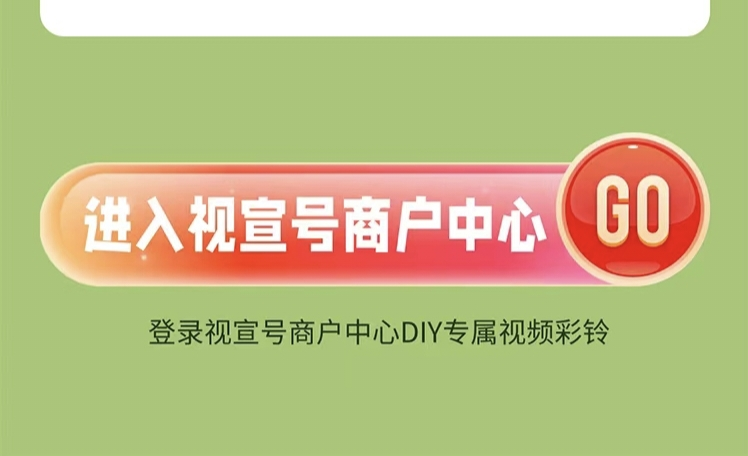
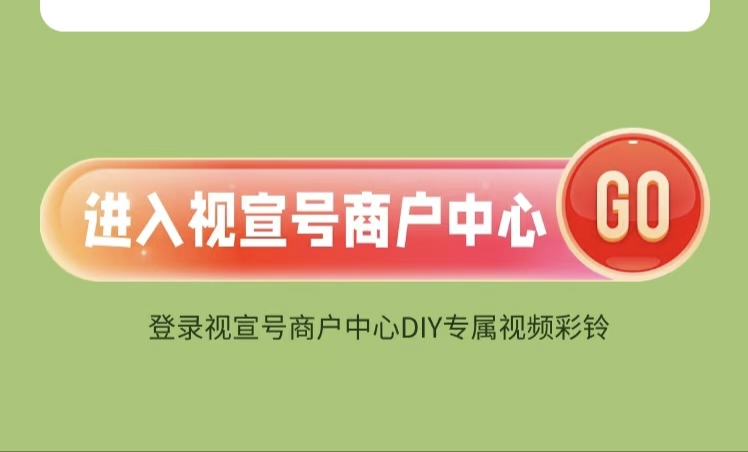
updated home bg & success page logic

diff --git a/src/view/Success.vue b/src/view/Success.vue
@@ -114,19 +114,6 @@
         </div>
       </div>
 
-      <div v-if="successPop" class="mask">
-        <div class="mask-wrapper">
-          <h2>开通成功</h2>
-          <div class="content">
-            您已成功订购咪咕音乐视宣号标准版，并设置《老板发财》视频彩铃，立即生效。
-          </div>
-          <router-link class="determine" to="/qzvideo">
-            查看视频彩铃
-          </router-link>
-          <div class="mask-close" @click="successPop = false"></div>
-        </div>
-      </div>
-
     </div>
   </div>
 </template>
@@ -140,7 +127,6 @@ export default {
   data() {
     return {
       apkUrl: "https://d.musicapp.migu.cn/upload/fbpt_rsync_apps/local/signed/MobileMusic7611/MobileMusic7611_014782K_20260128162625126.apk",
-      successPop: true,
       mobile: "",
       token: '',
       channelCode: '',
@@ -389,6 +375,21 @@ export default {
 
       window.commonCancel(data);
     },
+    initBackFun(result) {
+      console.log(JSON.stringify(result));
+      if (result.resultCode !== "0000") {
+        this.mToast("初始化错误" + JSON.stringify(result));
+        return;
+      }
+    },
+    cancelBackFun(result) {
+      console.log(result.resCode);
+      if ("" + result.resCode === "000000") {
+        this.mToast("退订成功", true);
+      } else {
+        this.mToast("退订失败: " + JSON.stringify(result.resMsg));
+      }
+    },
     removeLocalStorage() {
       localStorage.removeItem("token");
       localStorage.removeItem("channelCode");
@@ -402,8 +403,10 @@ export default {
     }
     this.token = localStorage.getItem("token");
     this.fetchData();
+    window.initBackFun = this.initBackFun;
+    window.cancelBackFun = this.cancelBackFun;
     window.ringPolicyBackFun = this.ringPolicyBackFun;
-    this.setDefaultRing(this.token);
+    // this.setDefaultRing(this.token);
   },
   beforeUnmount() {
     this.removeLocalStorage();
@@ -425,7 +428,7 @@ export default {
   width: 100%;
 }
 
-.go-top {
+.success .go-top, .success .kefu {
     position: absolute;
     top: 44vw;
     left: 13vw;
@@ -436,12 +439,7 @@ export default {
 }
 
 .success .kefu {
-  position: absolute;
   top: 120.5vw;
-  width: 76vw;
-  height: 12vw;
-  -webkit-animation: btnShow 1.2s infinite linear;
-  animation: btnShow 1.2s infinite linear;
 }
 
 @keyframes btnShow {

diff --git a/src/view/Home.vue b/src/view/Home.vue
@@ -106,6 +106,9 @@
     <!-- 热门商户彩铃入口 -->
     <router-link class="qzvideoLink" to="/qzvideo"></router-link>
 
+    <!-- 咪咕权益中心入口 -->
+    <div class="rightsCenter" @click="openMgRightsCenter()"></div>
+
     <a class="bottom-link" href="https://sxh.migu.cn/qysch/" ></a>
 
     <div class="rule-btn" @click="showProductRule = true"></div>
@@ -591,7 +594,7 @@
 // import VideoPlayer from "@/components/VideoPlayer.vue";
 // import axios from "axios";
 import CryptoJS from 'crypto-js';
-import { Tab, Tabs } from "vant";
+import { Divider, Tab, Tabs } from "vant";
 import encryptionMixin from "../assets/js/encryptionMixin";
 export default {
   name: "Home",
@@ -680,6 +683,30 @@ export default {
     redirectToMiguDownload() {
       // 跳转到咪咕下载页面
       window.location.href = "https://music.migu.cn/v3/app/h5";
+    },
+    async openMgRightsCenter() {
+      try {
+        if (!this.mobile) {
+          this.mToast("请先订购页面，再领取权益，谢谢。");
+          return;
+        }
+        // 1. 先获取token
+        this.token = await this.getToken();
+        if (!this.token) {
+          return;
+        }
+        // 2. 查询订购包月状态
+        const orderStatus = await this.queryOrder(this.token);
+        if (!orderStatus) {
+          return;
+        } else if (orderStatus === "0") { //0已订购 1未订购，已订购才能跳转到权益中心
+          window.location.href = "https://h5.nf.migu.cn/app/v4/n/rights-center/index.html?cfrom=cxtzzx_0029_bfb";
+        } else {  // 未订购，提示先订购
+          this.mToast("请先订购页面，再领取权益，谢谢。");
+        }
+      } catch (err) {
+        this.mToast("openMgRightsCenter流程出错:", err.message);
+      }
     },
     playVideo() {
       this.preVideoState.showFullscreenVideo = true;

diff --git a/src/assets/css/main.css b/src/assets/css/main.css
@@ -764,10 +764,15 @@ video::-webkit-media-controls {
   margin-right: 10px;
 }
 
-.qzvideoLink {
-    position: absolute;
-    width: 21vw;
-    height: 6vw;
-    top: 130.5vw;
-    left: 11vw;
+.qzvideoLink, .rightsCenter {
+  position: absolute;
+  width: 35vw;
+  height: 15vw;
+  top: 122vw;
+  left: 11vw;
+}
+
+.rightsCenter {
+  right: 11vw;
+  left: auto;
 }
